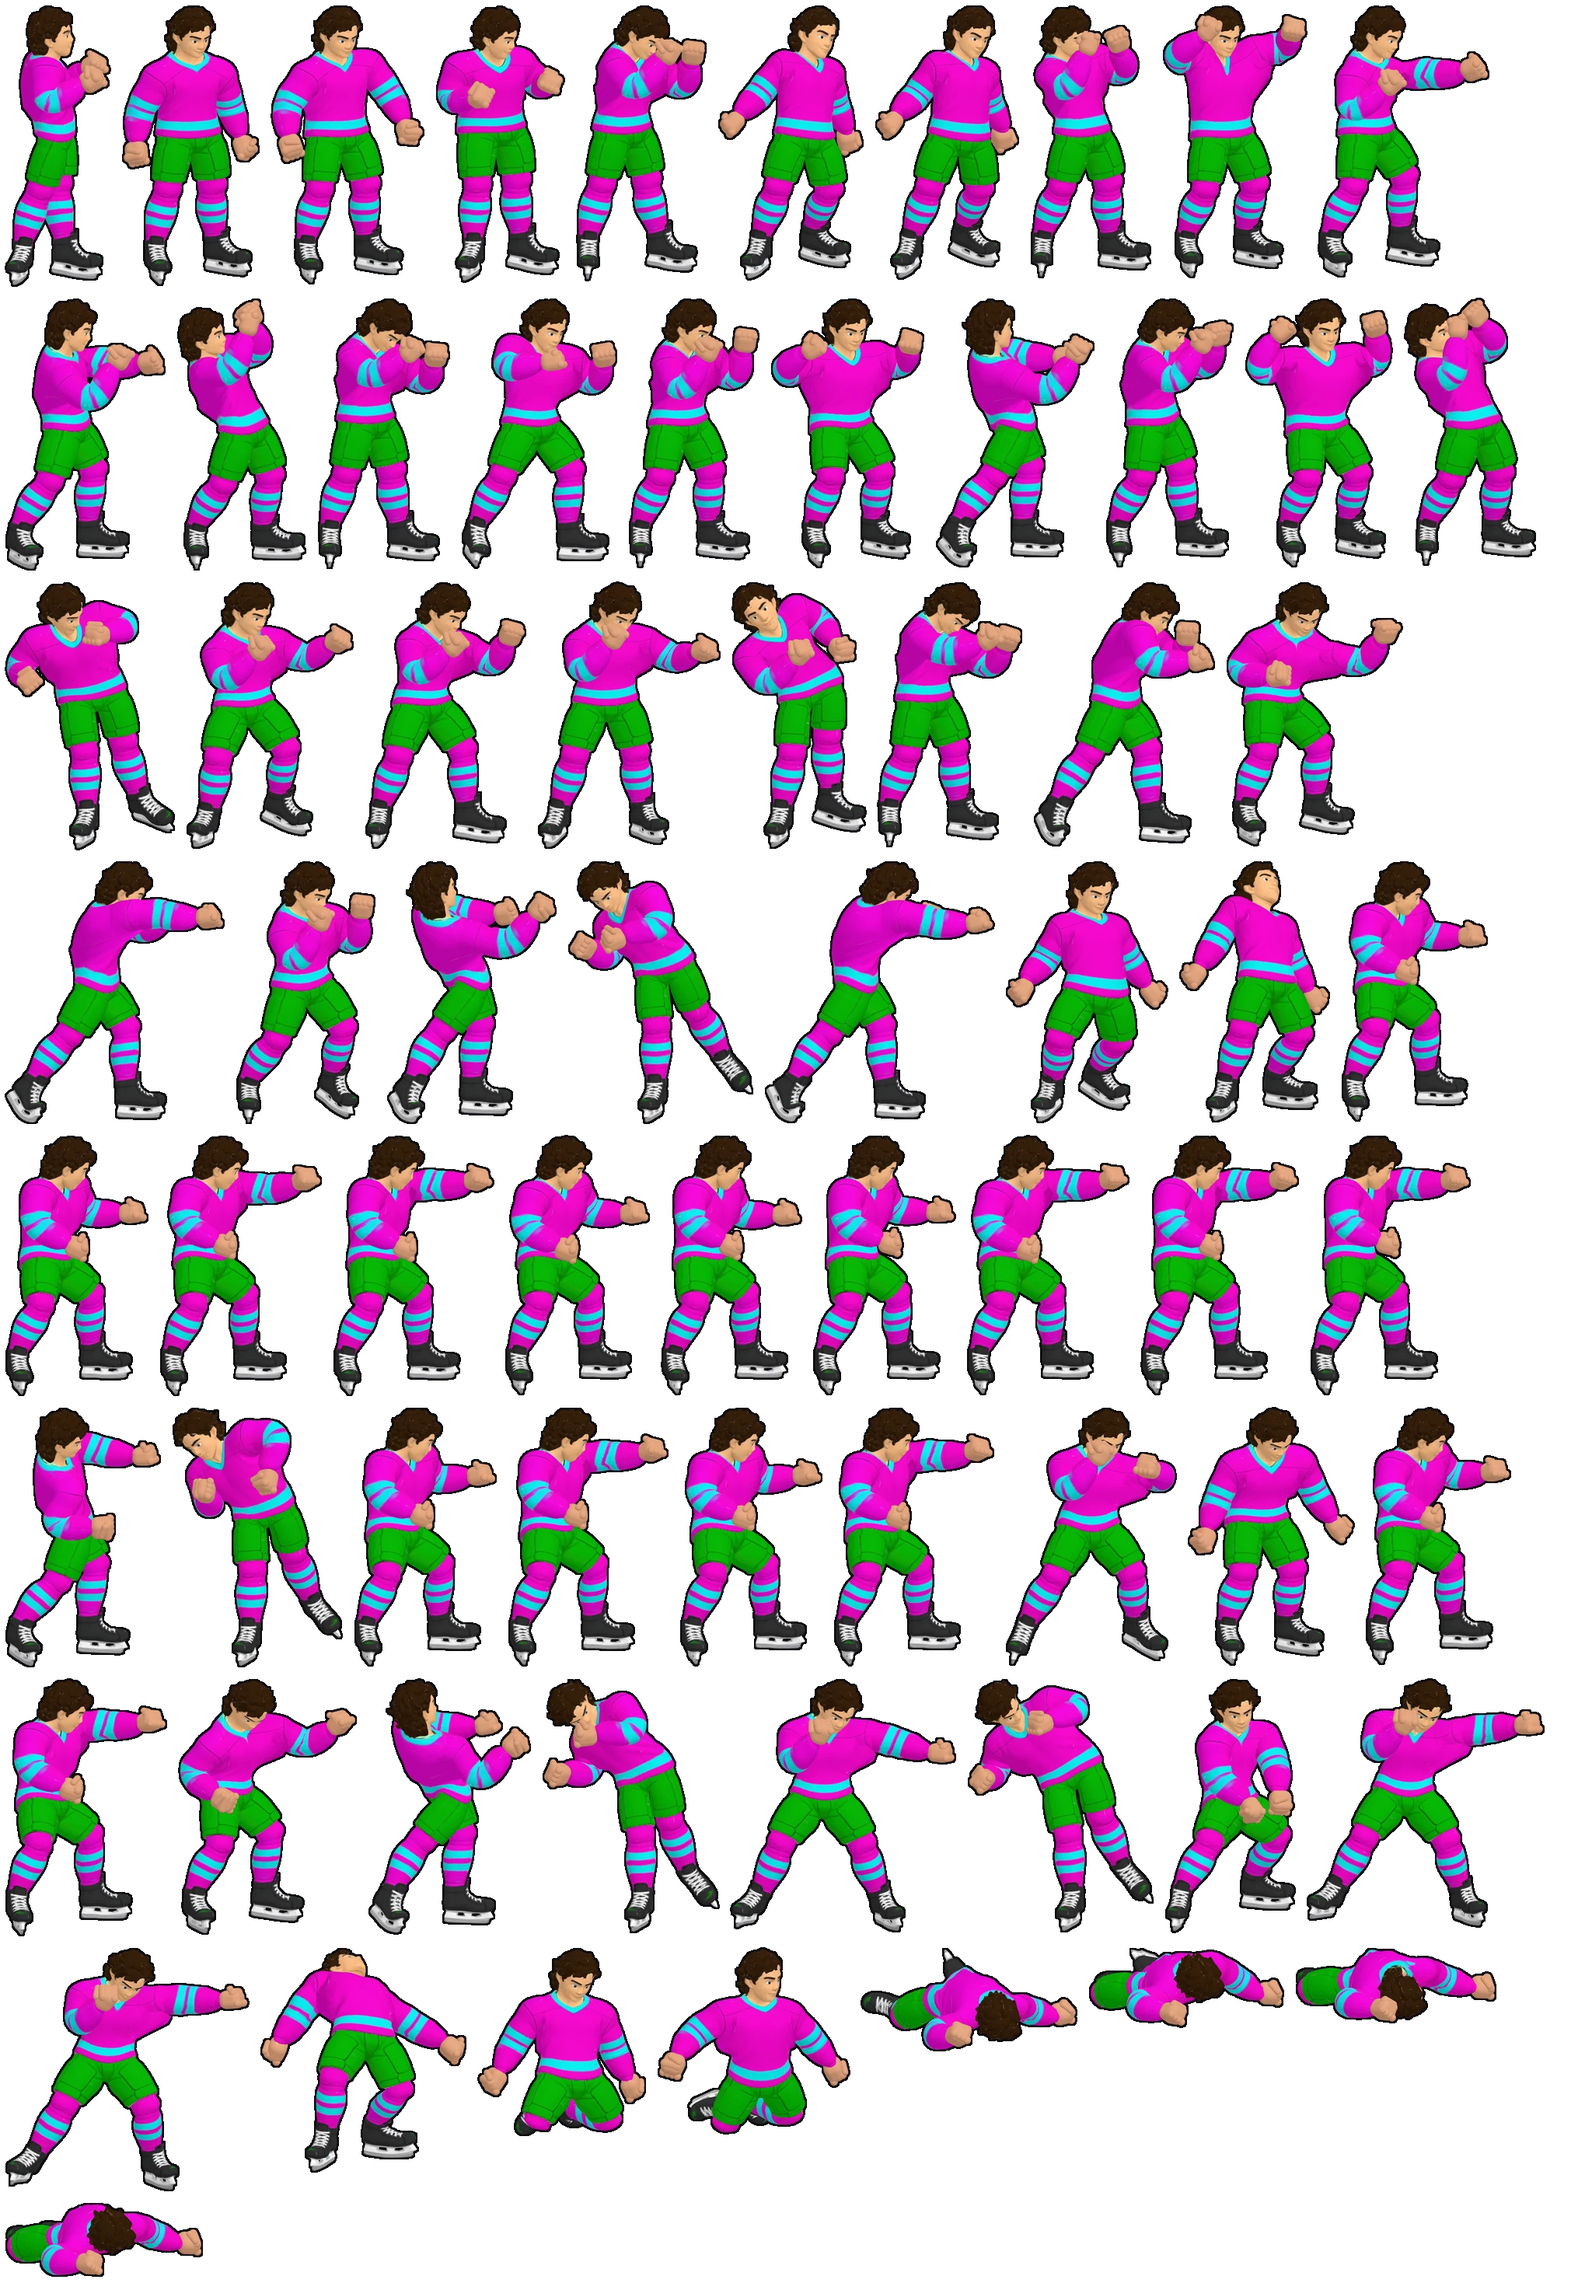
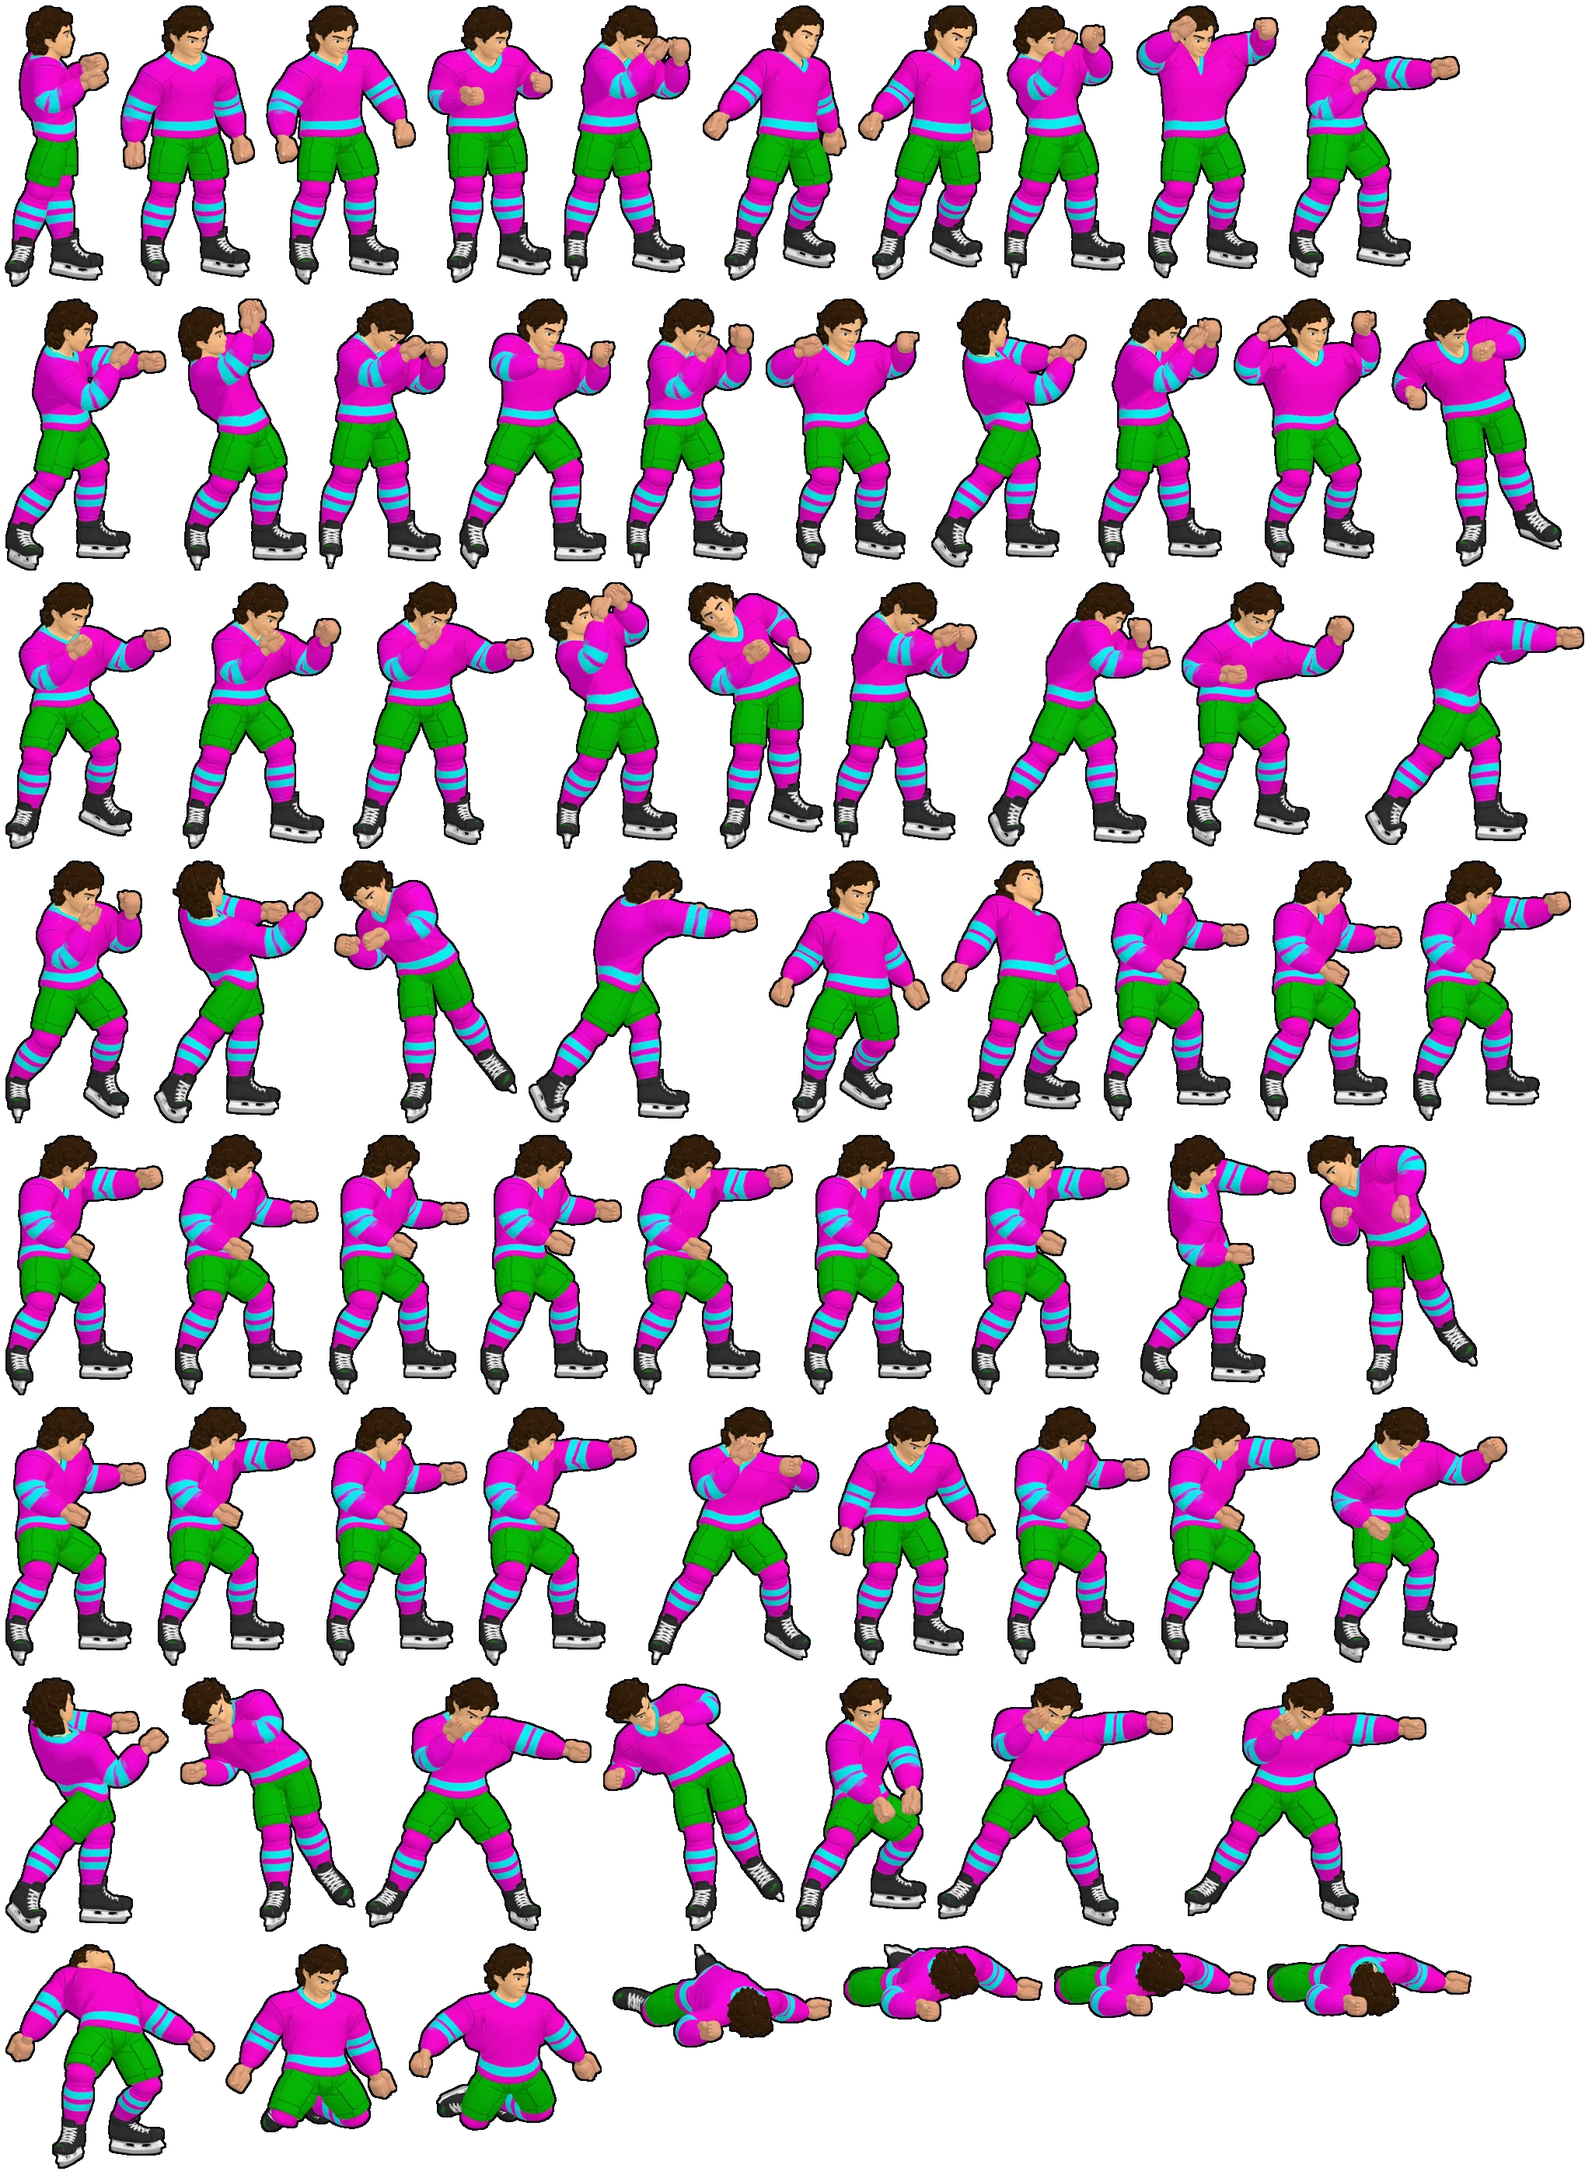
Fights: rebuilt fists - one solid closed hand, curled fingers with creases, thumb folded over the top
The old open hand is now fully collapsed into the cuff (its leftover stub read as extra thumbs).
Each fist is posed so the thumb sits on top and the curled fingers face the camera.

Claude-Session: https://claude.ai/code/session_01C1NNpy9rFbatHA9zeLktuV

diff --git a/tools/fight/fight.html b/tools/fight/fight.html
@@ -35,7 +35,7 @@ const pj=v=>{const p=v.clone().project(C); return [(p.x*.5+.5)*N,(1-(p.y*.5+.5))
 function pose(name,t,o={}){
   mx.stopAllAction(); const clip=g.animations.find(c=>c.name===name); const a=mx.clipAction(clip); a.reset().play(); mx.setTime(Math.min(t,clip.duration-1e-4)); root.rotation.y=({Idle_10:22,Dead:-66,Show_Both_Arm_Muscles:-50,Face_Punch_Reaction:-14}[name]||0)*Math.PI/180;
   root.updateMatrixWorld(true);
-  B.Head.scale.setScalar(1.12); B.LeftHand.scale.setScalar(0.35); B.RightHand.scale.setScalar(0.35); root.updateMatrixWorld(true);
+  B.Head.scale.setScalar(1.12); B.LeftHand.scale.setScalar(0.02); B.RightHand.scale.setScalar(0.02); root.updateMatrixWorld(true);
   if(o.grab){ // fake the jersey grab: lead (left) hand pinned on the other guy's shoulder/collar
     const D=window.DIST||1.0; const k=o.grab;
     const cur=wp(B.LeftHand), T=V(0.12,1.36,D-0.24);
@@ -44,25 +44,40 @@ function pose(name,t,o={}){
   }
 }
 window.yaws=(t0)=>g.animations.map(c=>{ pose(c.name,t0||0); const f=(a,b)=>{const L=wp(B[a]).sub(wp(B[b])); const F=L.clone().cross(V(0,1,0)); return +(Math.atan2(F.x,F.z)*57.3).toFixed(1);}; return [c.name,f('LeftUpLeg','RightUpLeg'),f('LeftArm','RightArm')]; });
-const SKIN=new THREE.MeshStandardMaterial({color:window.SKINC||0xe0a27c,roughness:.75});
-function mkFist(side){ const g=new THREE.Group();
-  const P=window.FP||{w:.095,t:.08,l:.10};
-  const body=new THREE.Mesh(new RoundedBoxGeometry(P.w,P.l,P.t,4,.032),SKIN); g.add(body);
-  // knuckle row along the far end
-  for(let i=0;i<4;i++){ const k=new THREE.Mesh(new THREE.SphereGeometry(.0175,12,10),SKIN); k.position.set((i-1.5)*.022,P.l/2-.012,-P.t/2+.022); g.add(k); }
-  // curled fingers: a rounded bar across the palm side
-  const fg=new THREE.Mesh(new THREE.CapsuleGeometry(.02,P.w-.04,4,10),SKIN); fg.rotation.z=Math.PI/2; fg.position.set(0,P.l/2-.03,P.t/2-.012); g.add(fg);
-  // thumb wrapped across the front of the fingers
-  const th=new THREE.Mesh(new THREE.CapsuleGeometry(.014,.045,4,10),SKIN); th.rotation.z=Math.PI/2+side*.35; th.position.set(side*.012,P.l/2-.05,P.t/2+.006); g.add(th);
+const SKIN=new THREE.MeshStandardMaterial({color:window.SKINC||0xe0a27c,roughness:.72});
+const SKIN2=new THREE.MeshStandardMaterial({color:0xd08f68,roughness:.78});
+// A closed fist in its own frame: X = forward (knuckles), Y = up (thumb side), Z = toward the camera (curled fingers).
+function capAlong(r,a,b2,mat){ const A=V(...a), Bv=V(...b2), d=Bv.clone().sub(A), L=d.length(); const m=new THREE.Mesh(new THREE.CapsuleGeometry(r,L,6,14),mat);
+  m.position.copy(A.clone().add(Bv).multiplyScalar(.5)); m.quaternion.setFromUnitVectors(V(0,1,0),d.normalize()); return m; }
+function mkFist(){ const g=new THREE.Group(); g.matrixAutoUpdate=false;
+  g.add(capAlong(.027,[-.01,0,0],[.03,0,0],SKIN));                                       // wrist into the cuff
+  const body=new THREE.Mesh(new RoundedBoxGeometry(.10,.088,.078,6,.032),SKIN); body.position.set(.066,0,0); g.add(body);
+  // four curled fingers stacked down the near face (index on top, pinky shortest), with soft creases between them
+  const ys=[.027,.009,-.009,-.026], ln=[.03,.032,.03,.024], CR=new THREE.MeshStandardMaterial({color:0xbf8060,roughness:.9});
+  for(let i=0;i<4;i++){ const x1=.104; g.add(capAlong(.0115,[x1-ln[i],ys[i],.028],[x1,ys[i],.028],SKIN)); }
+  for(let i=0;i<3;i++){ const y=(ys[i]+ys[i+1])/2; g.add(capAlong(.0018,[.084,y,.0392],[.111,y,.0392],CR)); g.add(capAlong(.0018,[.111,y,.0392],[.117,y,.022],CR)); }
+  // thumb: a pad at the base, then folded forward over the top of the index and middle fingers
+  const pad=new THREE.Mesh(new THREE.SphereGeometry(1,16,12),SKIN); pad.scale.set(.034,.022,.028); pad.position.set(.035,.032,.022); g.add(pad);
+  g.add(capAlong(.0155,[.038,.04,.03],[.094,.022,.046],SKIN));
+  const nail=new THREE.Mesh(new THREE.SphereGeometry(1,12,8),new THREE.MeshStandardMaterial({color:0xf0c4a8,roughness:.5})); nail.scale.set(.011,.006,.006); nail.position.set(.1,.03,.052); g.add(nail);
   sc.add(g); return g; }
-const FISTS={L:mkFist(1),R:mkFist(-1)};
+const FISTS={L:mkFist(),R:mkFist()};
+const CAMV=V(-Math.cos(AZ),Math.sin(EL),Math.sin(AZ)).normalize();
 function placeFists(){ root.updateMatrixWorld(true);
   for(const [k,h,e] of [['L','LeftHand','LeftHandMiddle4'],['R','RightHand','RightHandMiddle4']]){
     const w=wp(B[h]), q=new Q(); B[h].getWorldQuaternion(q); const g=FISTS[k];
-    const fwd=V(0,1,0).applyQuaternion(q).normalize();
-    const FS=window.FSCALE??1.6; g.scale.setScalar(FS); g.quaternion.copy(q); g.position.copy(w).add(fwd.multiplyScalar((window.FOFF??.055)*FS)); } }
+    const F=V(0,1,0).applyQuaternion(q).normalize();
+    let U=V(0,1,0).sub(F.clone().multiplyScalar(F.y)); if(U.length()<.35) U=V(0,0,1).sub(F.clone().multiplyScalar(F.z)).add(V(0,.5,0)); U.sub(F.clone().multiplyScalar(U.dot(F))).normalize();
+    let P=F.clone().cross(U); if(P.dot(CAMV)<0) P.negate();
+    const S=window.FSCALE??1.45; g.matrix.makeBasis(F,U,P).scale(V(S,S,S)).setPosition(w.clone().add(F.clone().multiplyScalar(.012*S))); g.matrixWorldNeedsUpdate=true; } }
+window.close=(name,t,o,side,size,az,hideFist)=>{ pose(name,t,o||{}); if(window.ORIG){ B.LeftHand.scale.setScalar(1); B.RightHand.scale.setScalar(1); root.updateMatrixWorld(true);} placeFists();
+  for(const k of ['L','R']) FISTS[k].visible=!hideFist;
+  const h=wp(B[side==='L'?'LeftHand':'RightHand']); const c=new THREE.OrthographicCamera(-size,size,size,-size,.1,50); const a=(az||0)*Math.PI/180;
+  c.position.set(h.x-Math.cos(a)*4,h.y+.3,h.z+Math.sin(a)*4); c.lookAt(h); c.updateProjectionMatrix();
+  let ax=[]; if(window.AXES){ const q=new Q(); B[side==='L'?'LeftHand':'RightHand'].getWorldQuaternion(q); for(const [v,col] of [[V(.09,0,0),0xff0000],[V(0,.14,0),0x00ff00],[V(0,0,.09),0x0000ff]]){ const m=new THREE.Mesh(new THREE.SphereGeometry(.016),new THREE.MeshBasicMaterial({color:col,depthTest:false})); m.position.copy(h).add(v.applyQuaternion(q)); sc.add(m); ax.push(m);} }
+  r.render(sc,c); for(const m of ax) sc.remove(m); for(const k of ['L','R']) FISTS[k].visible=true; return cv.toDataURL('image/png'); };
 window.info=()=>g.animations.map(c=>[c.name,c.duration]);
 window.measure=(name,n)=>{ const clip=g.animations.find(c=>c.name===name); const out=[]; for(let i=0;i<=n;i++){ const t=clip.duration*i/n; pose(name,t); out.push([+t.toFixed(2),...['RightHand','LeftHand','Hips','Head'].map(k=>{const p=wp(B[k]);return [+p.x.toFixed(2),+p.y.toFixed(2),+p.z.toFixed(2)];})]); } return out; };
-window.shot=(name,t,o)=>{ pose(name,t,o||{}); placeFists(); r.render(sc,C); return {img:cv.toDataURL('image/png'),anchor:pj(V(0,0,0)),hand:[pj(FISTS.R.position),pj(FISTS.L.position)],head:pj(wp(B.Head))}; };
+window.shot=(name,t,o)=>{ pose(name,t,o||{}); placeFists(); r.render(sc,C); return {img:cv.toDataURL('image/png'),anchor:pj(V(0,0,0)),hand:[pj(V().setFromMatrixPosition(FISTS.R.matrix)),pj(V().setFromMatrixPosition(FISTS.L.matrix))],head:pj(wp(B.Head))}; };
 window.ready=true;
 </script>
